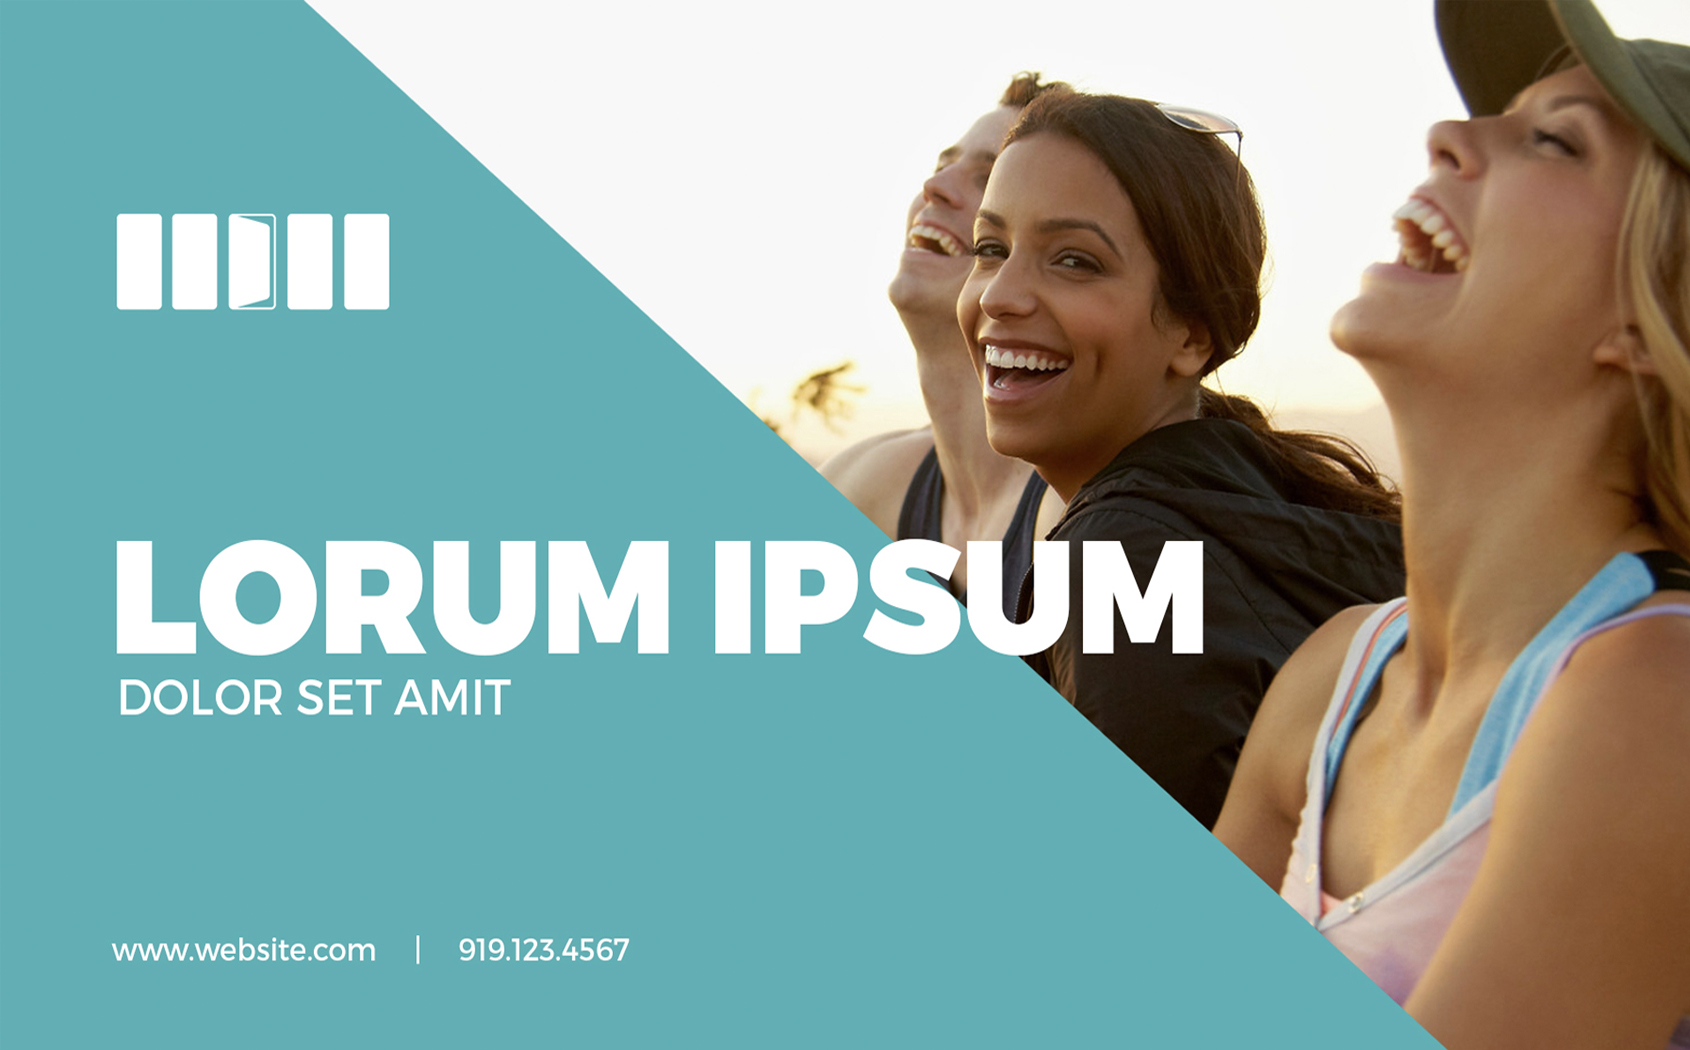
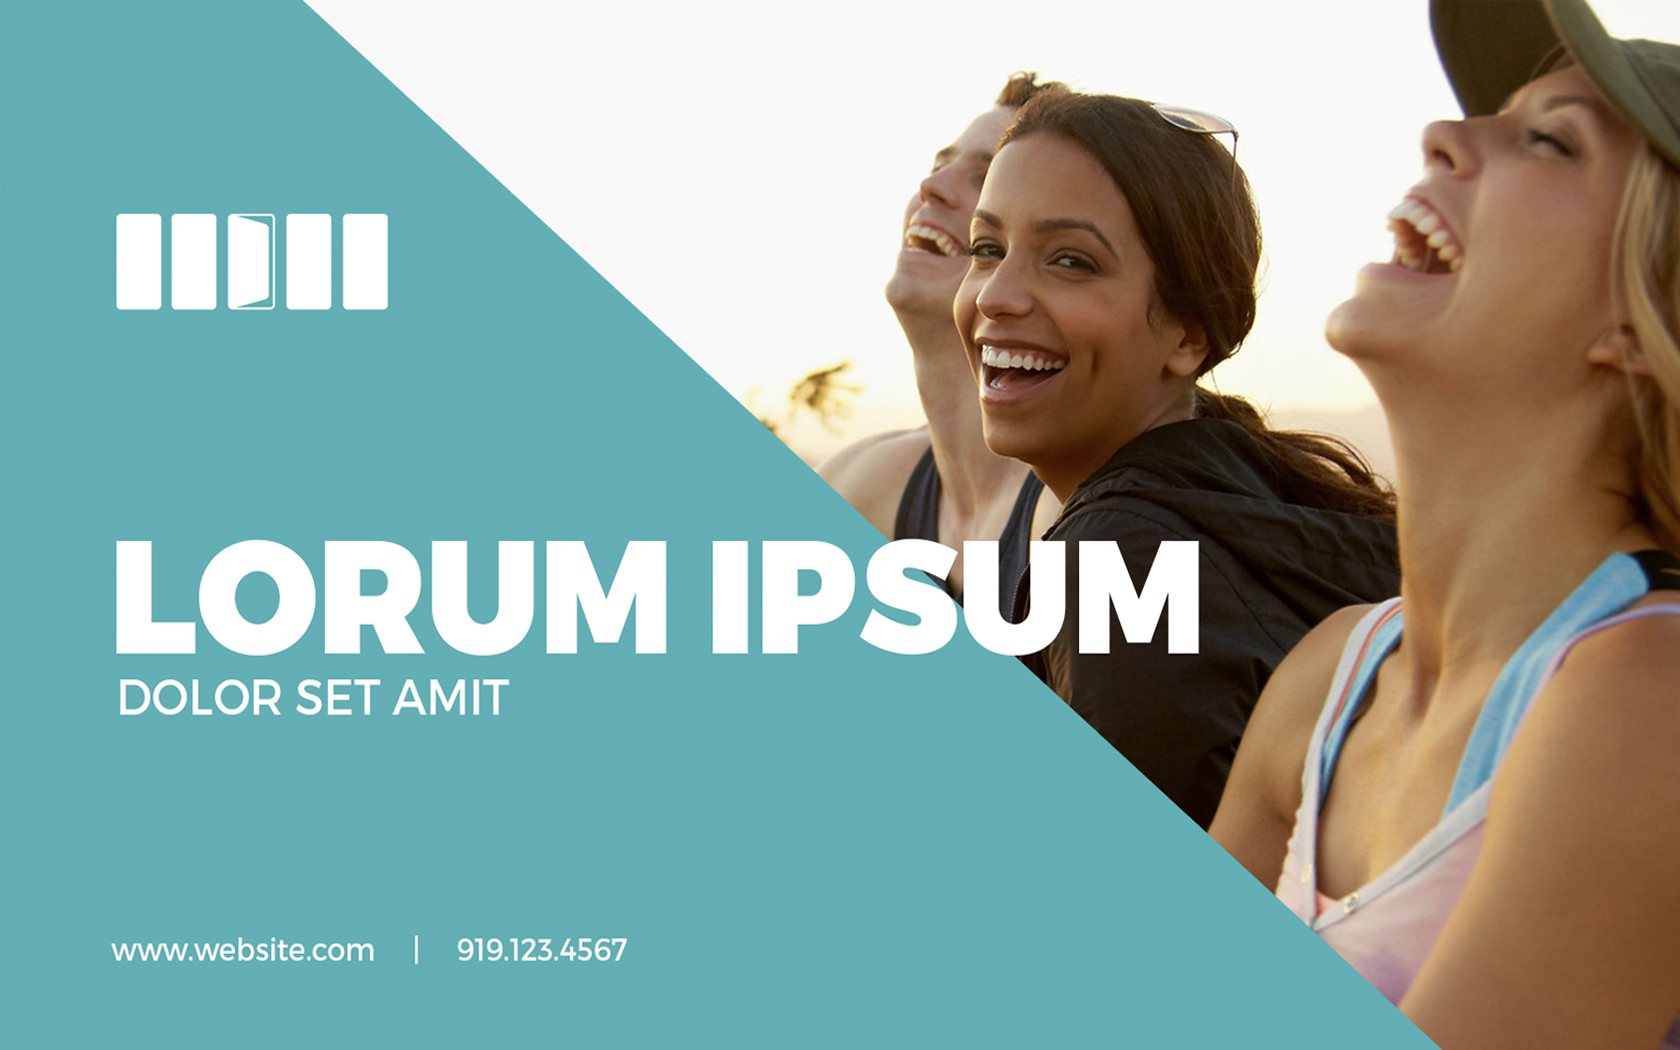
Image Resize

diff --git a/index.html b/index.html
@@ -16,7 +16,7 @@ body {position: relative; color:#fff; padding:30px; }
 .bg-slider-img {
   position: absolute;
   z-index: -1;
-  height: 100vh;
+  height: 100%;
   width: 100%;
 }
 </style>
